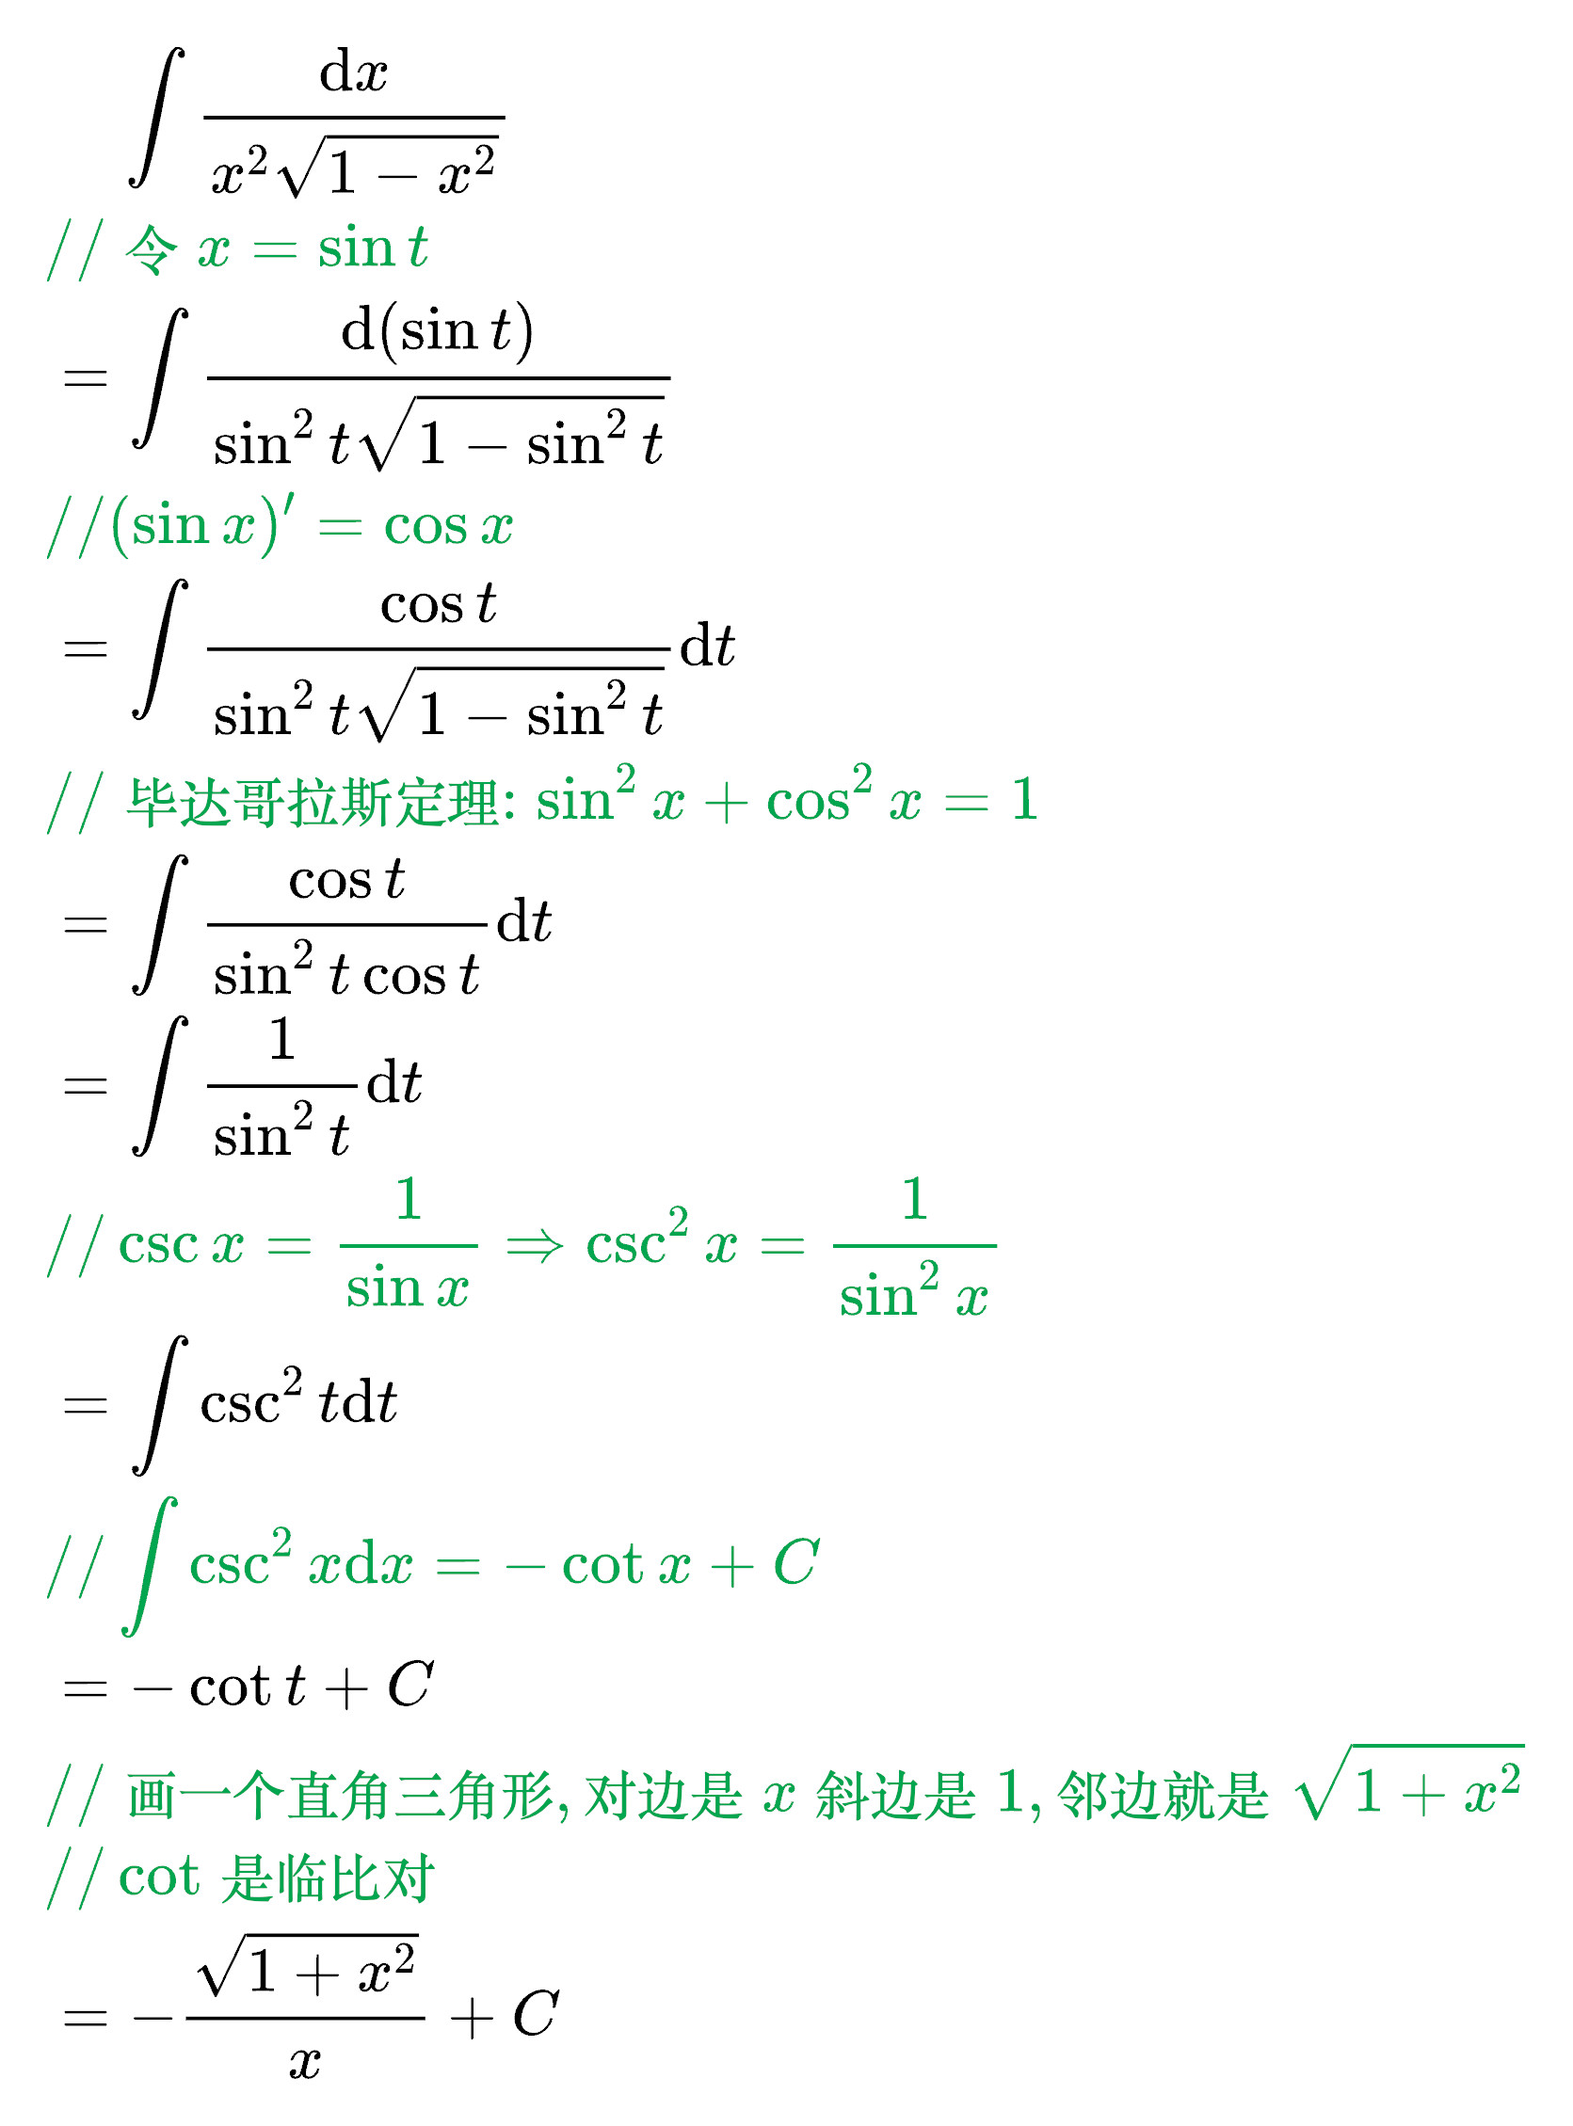
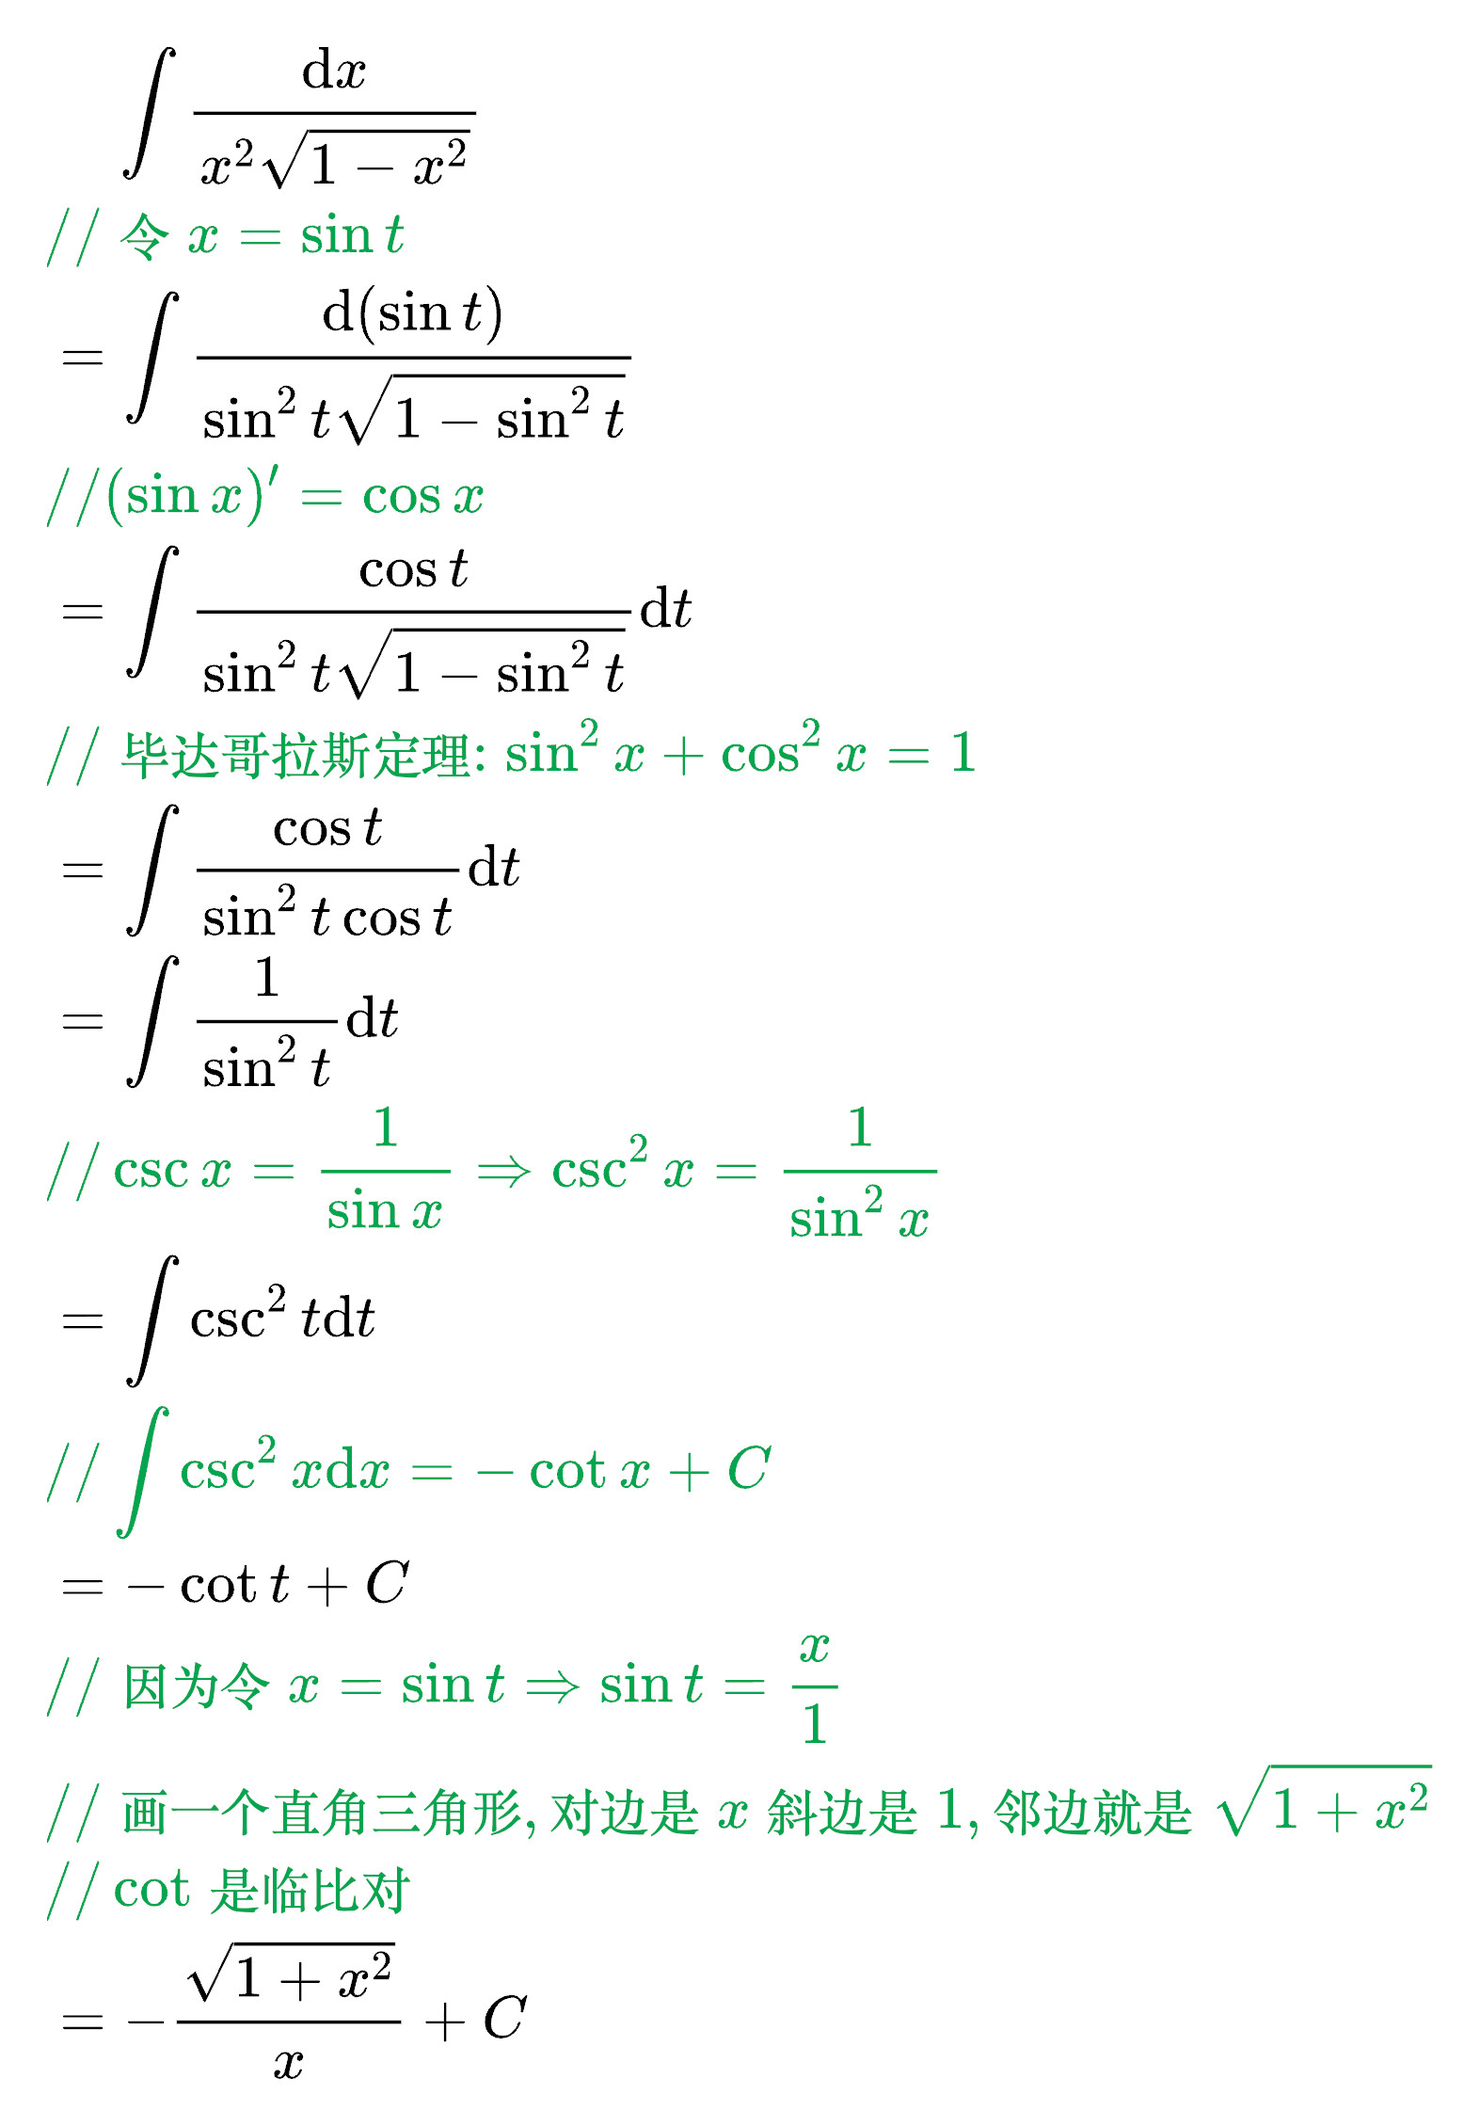
1

diff --git a/base/math/src/further_mathematics/indefinite_integral2.md b/base/math/src/further_mathematics/indefinite_integral2.md
@@ -305,6 +305,7 @@ G(t) + C = G[\varphi ^{-1}(x)] + C \\
 & {\color{Green} // \int \sec x \mathrm{d}x = \ln |\sec x + \tan x| + C} \\
 & = \ln |\sec t + \tan t| + C \\
 & {\color{Green} // x = a \tan t \Rightarrow \tan t = \frac{x}{a}} \\
+& {\color{Green} // 因为 令 x = a \tan t \Rightarrow \tan t = \frac{x}{a}} \\
 & {\color{Green} // 画一个直角三角形, 两个直角边是 x 和 a, 斜边就是 \sqrt{x^2 + a^2}} \\
 & {\color{Green} // \sec t = \frac{1}{\cos t} = \frac{\sqrt{x^2 + a^2}}{a}} \\
 & = \ln |\frac{\sqrt{x^2 + a^2}}{a} + \frac{x}{a}| + C \\
@@ -333,6 +334,7 @@ G(t) + C = G[\varphi ^{-1}(x)] + C \\
 & = \int \csc ^2 t \mathrm{d}t \\
 & {\color{Green} // \int \csc ^2 x \mathrm{d}x = -\cot x + C} \\
 & = -\cot t + C \\
+& {\color{Green} // 因为 令 x = \sin t \Rightarrow \sin t = \frac{x}{1}} \\
 & {\color{Green} // 画一个直角三角形, 对边是 x 斜边是 1, 邻边就是 \sqrt{1 + x^2}} \\
 & {\color{Green} // \cot 是临比对} \\
 & = -\frac{\sqrt{1 + x^2}}{x} + C \\
@@ -340,3 +342,31 @@ G(t) + C = G[\varphi ^{-1}(x)] + C \\
 -->
 
 ![](../img/ii2_18.jpg)
+
+例题 3
+
+<!--
+\begin{align}
+& \;\;\;\; \int \frac{\mathrm{d}x}{x^2 \sqrt{x^2 + 1}} \\
+& {\color{Green} // 令 x = \tan t} \\
+& = \int \frac{\mathrm{d}(\tan t)}{(\tan t)^2 \sqrt{(\tan t)^2 + 1}} \\
+& {\color{Green} // (\tan x)' = \sec^{2} x} \\
+& = \int \frac{\sec^{2} t}{(\tan t)^2 \sqrt{(\tan t)^2 + 1}} \mathrm{d}t \\
+& {\color{Green} // 毕达哥拉斯定理: \tan ^{2} x + 1 = \sec ^{2} x} \\
+& = \int \frac{\sec^{2} t}{\tan ^{2} t \sec t} \mathrm{d}t \\
+& = \int \frac{\sec t}{\tan ^{2} t} \mathrm{d}t \\
+& {\color{Green} // \sec x = \frac{1}{\cos x}} \\
+& = \int \frac{\frac{1}{\cos t}}{\frac{\sin ^2 t}{\cos ^2 t}} \mathrm{d}t \\
+& = \int \frac{\cos t}{\sin ^2 t} \mathrm{d}t \\
+& {\color{Green} // (\sin x)' = \cos x} \\
+& = \int \frac{1}{\sin ^2 t} \mathrm{d}(\sin t) \\
+& = - \frac{1}{\sin t} + C \\
+& {\color{Green} // 因为 令 x = \tan t \Rightarrow \tan t = \frac{x}{1}} \\
+& {\color{Green} // 所以画一个直角三角形, 对边是 x 临边是 1, 斜边就是 \sqrt{1 + x^2}} \\
+& {\color{Green} // \sin 是对比斜} \\
+& = - \frac{1}{\frac{x}{\sqrt{1 + x^2}}} + C \\
+& = - \frac{\sqrt{1 + x^2}}{x} + C \\
+\end{align}
+-->
+
+![](../img/ii2_19.jpg)

diff --git a/programming/Java/md/java/src/log/logback/appender.md b/programming/Java/md/java/src/log/logback/appender.md
@@ -1,0 +1,77 @@
+# Appender
+
+负责输出日志
+
+```xml
+<configuration>
+    <appender name="CONSOLE" class="ch.qos.logback.core.ConsoleAppender">
+    </appender>
+</configuration>
+```
+
+- name: Appender 名称
+- class: Appender 使用的类
+
+## ConsoleAppender
+
+日志输出到控制台
+
+```xml
+<configuration>
+    <appender name="CONSOLE" class="ch.qos.logback.core.ConsoleAppender">
+        <!--  日志格式  -->
+        <encoder>
+            <pattern>%d{HH:mm:ss.SSS} [%thread] %-5level %logger{36} - %msg%n</pattern>
+            <charset>utf8</charset>
+        </encoder>
+        <!--  输出位置  -->
+        <!--  可选值:  -->
+        <!--      System.out 默认  -->
+        <!--      System.err  -->
+        <target>System.out</target>
+    </appender>
+</configuration>
+```
+
+## FileAppender
+
+日志输出到文件
+
+```xml
+<configuration>
+    <appender name="FILE" class="ch.qos.logback.core.FileAppender">
+        <!--  日志格式  -->
+        <encoder>
+            <pattern>%d{HH:mm:ss.SSS} [%thread] %-5level %logger{36} - %msg%n</pattern>
+            <charset>utf8</charset>
+        </encoder>
+        <!--  日志文件路径  -->
+        <file>./main.log</file>
+        <!--  日志是否加到文件末尾  -->
+        <append>true</append>
+    </appender>
+</configuration>
+```
+
+## RollingFileAppender
+
+自动创建日志文件
+
+```xml
+<configuration>
+    <appender name="FILE" class="ch.qos.logback.core.rolling.RollingFileAppender">
+        <!--  日志格式  -->
+        <encoder>
+            <pattern>%d{HH:mm:ss.SSS} [%thread] %-5level %logger{36} - %msg%n</pattern>
+            <charset>utf8</charset>
+        </encoder>
+        <!--  日志文件生成策略  -->
+        <rollingPolicy class="ch.qos.logback.core.rolling.TimeBasedRollingPolicy">
+            <!--  每天生成一个日志文件  -->
+            <fileNamePattern>./main.%d{yyyy-MM-dd}.log</fileNamePattern>
+            <!--  每个日志文件最大的保存时间  -->
+            <maxHistory>30</maxHistory>
+        </rollingPolicy>
+    </appender>
+</configuration>
+```

diff --git a/programming/Java/md/jvm_spec/src/jvm21/structure/primitive_types.md b/programming/Java/md/jvm_spec/src/jvm21/structure/primitive_types.md
@@ -74,25 +74,14 @@ NaN 是无序的, 所以比较两个 NaN 是否相等的结果为 false。如果
 
 ## boolean 类型
 
-Although the Java Virtual Machine defines a `boolean` type, it only provides
-very limited support for it. There are no Java Virtual Machine instructions solely
-dedicated to operations on `boolean` values. Instead, expressions in the Java
-programming language that operate on `boolean` values are compiled to use values
-of the Java Virtual Machine int data type.
+尽管 JVM 定义了 `boolean` 类型, 但却只提供了有限的支持。JVM 没有专门操作 `boolean` 类型值的指令。对 `boolean` 类型值的操作在编译后都会转换成对 `int` 类型值的操作。
 
-The Java Virtual Machine does directly support `boolean` arrays. Its _`newarray`_
-instruction enables creation of `boolean` arrays. Arrays of type
-`boolean` are accessed and modified using the byte array instructions _`baload`_ and
-_`bastore`_ .
+JVM 直接支持 `boolean` 数组。_`newarray`_ 指令可以创建 `boolean` 数组。`boolean` 数组使用 _`baload`_ 和
+_`bastore`_ 指令进行访问和修改。
 
-In Oracle’s Java Virtual Machine implementation, `boolean` arrays in the Java
-programming language are encoded as Java Virtual Machine byte arrays, using 8 bits per
-`boolean` element.
+在 Oracle 的 JVM 实现中, `boolean` 数组被编码成 `byte` 类型的数组, 每个 `boolean` 元素占用 8 比特。
 
-The Java Virtual Machine encodes `boolean` array components using 1 to represent
-true and 0 to represent false. Where Java programming language `boolean` values
-are mapped by compilers to values of Java Virtual Machine type int, the compilers
-must use the same encoding.
+JVM 用 1 和 0 编码 `boolean` 数组的组件, 1 表示 `true`, 0 表示 `false`。Java 语言编译器把 `boolean` 值编译成了`int` 值, 其它编译器也需要遵守。
 
 ## 注释
 

diff --git a/programming/Java/md/jvm_spec/src/jvm21/structure/reference_types.md b/programming/Java/md/jvm_spec/src/jvm21/structure/reference_types.md
@@ -1,1 +1,15 @@
 # 引用类型
+
+有三种 `reference` 类型: class 类型, array 类型, 和 interface 类型. 它的值引用的是动态创建的类实例, 数组, 或者实现了某些接口的类实例或数组。
+
+一个数组类型由一个单一维度的 _组件类型(component type)_ 组成 (whose length is not given by the type). 一个数组类型的组件类型本身可能也是数组类型。如果，从任何数组类型开始, one considers its component type, and then
+(if that is also an array type) the component type of that type, and so on, 最终
+one must reach a component type that is not an array type; this is called the _element
+type_ of the array type. The element type of an array type is necessarily either a
+primitive type, or a class type, or an interface type. (如三维数组 `int[][][]` 的组件类型为 `int[][]`, 二维数组 `int[][]` 的组件类型为 `int[]`, 一维数组 `int[]` 的组件类型是 `int`。)
+
+A `reference` value may also be the special null reference, a reference to no object,
+which will be denoted here by `null`. The `null` reference initially has no run-time
+type, but may be cast to any type. The default value of a `reference` type is `null`.
+
+This specification does not mandate a concrete value encoding `null`.

diff --git a/base/operating_system/src/file/store.md b/base/operating_system/src/file/store.md
@@ -3,3 +3,13 @@
 类似于内存分页，磁盘中的存储单元也会被分为一个个的块(磁盘块/物理块)。很多操作系统中，磁盘块的大小与内存块、页面的大小相同。内存与磁盘之间的数据交换都是以磁盘块为单位进行的。即每次读入一块，或每次写出一块。
 
 用户通过逻辑地址来操作自己的文件，操作系统要负责实现从逻辑地址到物理地址的映射。文件的逻辑地址也可以表示为 `(逻辑块号, 块内地址)` 的形式。
+
+## 连续分配
+
+连续分配方式要求每个文件在磁盘上占有一组连续的块。文件目录中记录存放的起始块号和长度（总共占用几个块）。
+
+用户给出要访问的逻辑块号，操作系统找到该文件对应的目录项（FCB）, `物理块号 = 起始块号 + 逻辑块号`。
+
+可以直接算出逻辑块号对应的物理块号，因此连续分配支持顺序访问和直接访问（即随机访问）。
+
+读取某个磁盘块时，需要移动磁头。访问的两个磁盘块相隔越远，移动磁头所需时间就越长。所以连续分配的文件在顺序读/写时速度最快。

diff --git a/programming/Java/md/java/src/log/logback/encoder.md b/programming/Java/md/java/src/log/logback/encoder.md
@@ -1,0 +1,28 @@
+# Encoder
+
+encoder 节点的默认值是 PatternLayoutEncoder。
+
+```xml
+<encoder>
+    <pattern>%d{HH:mm:ss.SSS} [%thread] %-5level %logger{36} - %msg%n</pattern>
+    <charset>utf8</charset>
+</encoder>
+```
+
+## pattern 配置
+
+- `%c{length}`: 日志的 logger 名。length 可选, 用来缩短输出字符串的长度, 设置为 0 表示只输出最右边的 `.` 之后的字符串
+- `%C{length}`: 日志信息所属的类全名。length 可选, 用来缩短输出字符串的长度, 设置为 0 表示只输出最右边的 `.` 之后的字符串
+- `%d{pattern}`: 日志的产生时间。pattern 用来格式化日期, 例如: `%d{yyyy-MM-dd HH:mm:ss.SSS}`
+- `%F`: 输出日志信息所属的文件名
+- `%caller{depth}`: 日志的调用链路。例如, `%caller{5}` 输出:
+  ```log
+  Caller+0	 at com.example.App.say(App.java:9)
+  Caller+1	 at com.example.App.main(App.java:12)
+  ```
+- `%L`: 打印日志的代码所在的行号
+- `%m`: 应用程序提供的信息
+- `%M`: 打印日志的代码所在的方法名
+- `%n`: 换行
+- `%p`: 日志级别
+- `%t`: 产生日志的线程名

diff --git a/programming/go/src/base/cast/type_assertions.md b/programming/go/src/base/cast/type_assertions.md
@@ -1,0 +1,73 @@
+# 断言类型转换
+
+变量必须是接口类型。
+
+写法 1
+
+```go
+转换后的变量 := 变量.(要转换的类型) // 如果断言失败则触发 panic
+```
+
+写法 2
+
+```go
+转换后的变量, 是否成功 := 变量.(要转换的类型) // 断言失败不会触发 panic
+```
+
+示例
+
+```go
+package main
+
+import "fmt"
+
+type A interface {
+}
+
+func main() {
+	var a A
+	format := a.(int) // panic: interface conversion: main.A is nil, not int
+	fmt.Println(format)
+}
+```
+
+## switch 使用断言
+
+```go
+package main
+
+import "fmt"
+
+type A interface {
+	Do()
+}
+
+type AChild struct {
+}
+
+func (a *AChild) Do() {
+	fmt.Println("A Do")
+}
+
+type BChild struct {
+}
+
+func (b *BChild) Do() {
+	fmt.Println("B Do")
+}
+
+func testConvert(a A) {
+	switch a.(type) {
+	case *AChild: // 接口的值是引用, 所以需要用指针判断
+		fmt.Println("AChild")
+	case *BChild:
+		fmt.Println("BChild")
+	default:
+		fmt.Println("default")
+	}
+}
+
+func main() {
+	testConvert(&AChild{})
+}
+```

diff --git a/programming/Java/md/java/src/log/logback/config.md b/programming/Java/md/java/src/log/logback/config.md
@@ -6,3 +6,16 @@ logback 查找配置文件的顺序:
 2. 查找 classpath 下(放到 idea 的 resource 目录下)的 logback-test.xml 文件
 3. 查找 classpath 下的 logback.xml 文件
 4. 如果都没有, 则默认输出到控制台
+
+## configuration
+
+根节点
+
+```xml
+<configuration scan="true" scanPeriod="1000" debug="false">
+</configuration>
+```
+
+- scan: 配置文件修改后是否重新加载。默认 true
+- scanPeriod: 检查配置文件是否修改的时间间隔。默认单位是毫秒。默认值 1 分钟
+- debug: 是否打印 logback 内部日志。默认值 false

diff --git a/programming/Java/md/java/src/log/logback/logger.md b/programming/Java/md/java/src/log/logback/logger.md
@@ -1,0 +1,20 @@
+# Logger
+
+用来设置某一个包或具体的某一个类的日志打印级别和 Appender, root 节点也是 logger 元素，是根 logger。
+
+```xml
+<configuration>
+    <logger name="com.example" level="DEBUG">
+        <appender-ref ref="CONSOLE"/>
+        <appender-ref ref="FILE"/>
+    </logger>
+
+    <root level="INFO">
+        <appender-ref ref="CONSOLE"/>
+        <appender-ref ref="FILE"/>
+    </root>
+</configuration>
+```
+
+- name: 指定使用这个 logger 的包或类。root 节点的 name 就是 root
+- level: 指定日志级别

diff --git a/programming/go/src/base/interface/params.md b/programming/go/src/base/interface/params.md
@@ -1,6 +1,8 @@
 # 将接口作为参数传递
 
-当一个结构体实现了一个接口的所有方法后, 就可以作为实现传递给以接口作为参数的方法中
+当一个结构体实现了一个接口的所有方法后, 就可以作为实现传递给以接口作为参数的方法中。
+
+注意: 接口的值本身就是引用, 所以不需要加 `*`, 如果要传递结构体给接口变量, 也必须传递引用。
 
 ```go
 package main

diff --git a/programming/Java/md/java/src/SUMMARY.md b/programming/Java/md/java/src/SUMMARY.md
@@ -152,6 +152,9 @@
   - [logback](./log/logback/logback.md)
     - [基本使用](./log/logback/quick_start.md)
     - [配置文件](./log/logback/config.md)
+    - [Appender](./log/logback/appender.md)
+    - [Logger](./log/logback/logger.md)
+    - [Encoder](./log/logback/encoder.md)
 
 - [GraalVM](./graalvm/graalvm.md)
   - [基本使用](./graalvm/quick_start.md)

diff --git a/programming/go/src/SUMMARY.md b/programming/go/src/SUMMARY.md
@@ -78,6 +78,8 @@
     - [获取日期](./base/date/now.md)
     - [日期格式化](./base/date/format.md)
   - [类型转换](./base/cast/cast.md)
+    - [断言类型转换](./base/cast/type_assertions.md)
+    - [显式类型转换](./base/cast/conversions.md)
 
 - [wails](./wails/wails.md)
   - [Hello World](./wails/quick_start.md)
